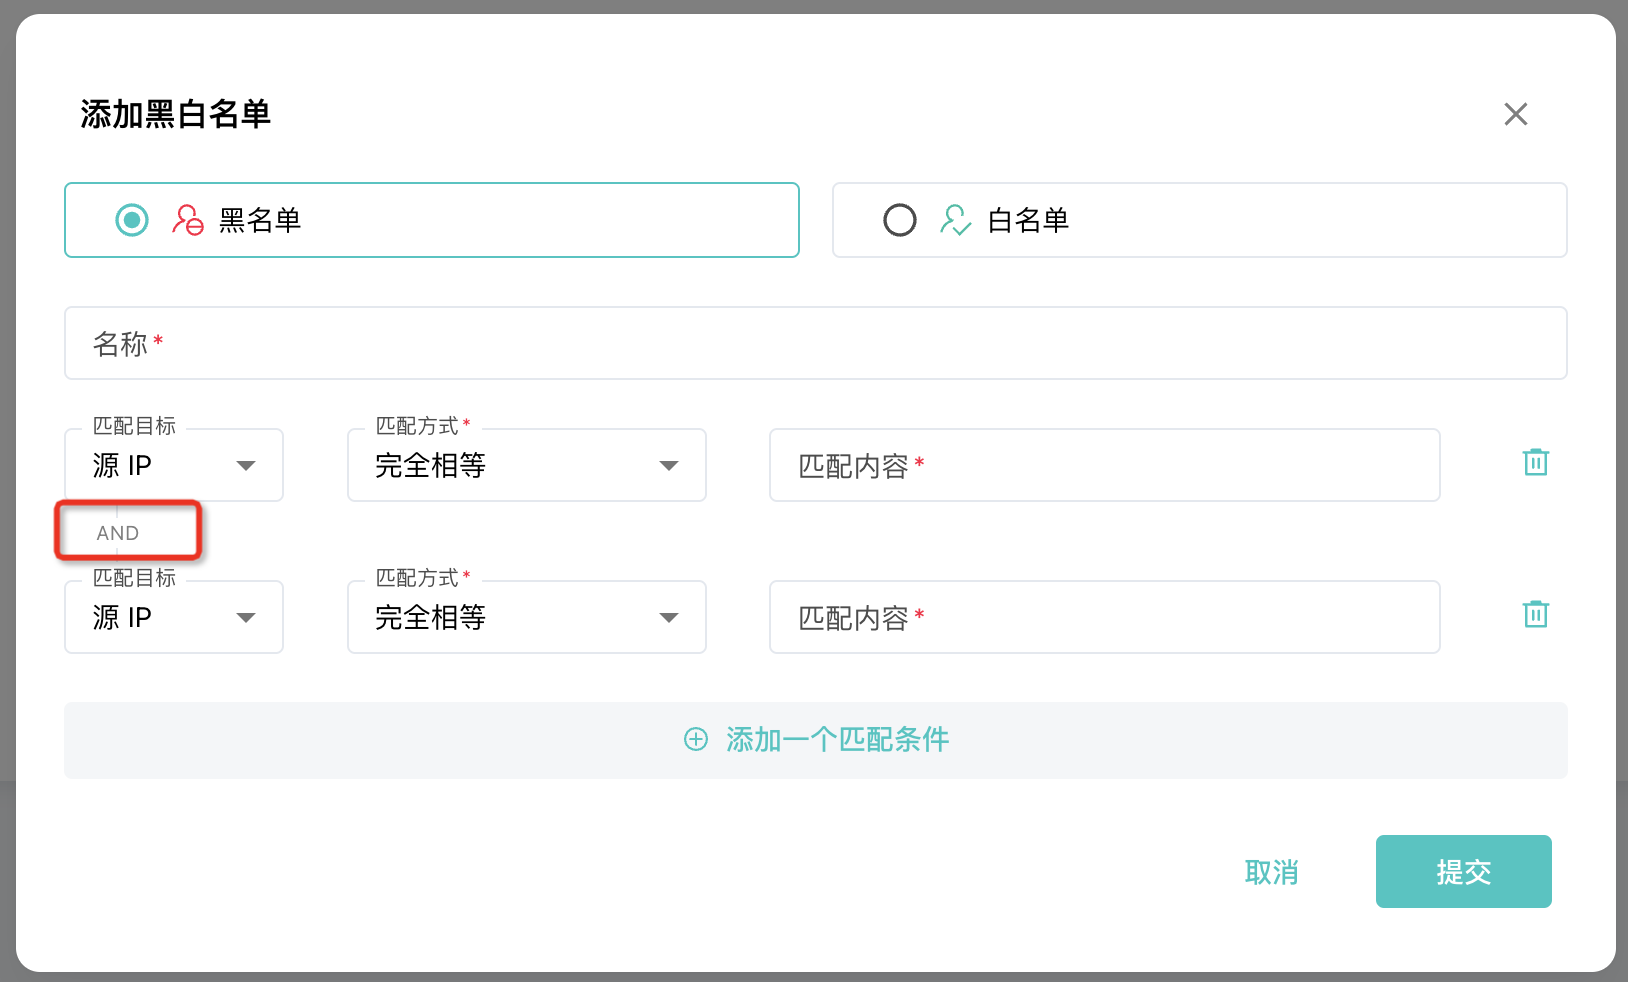
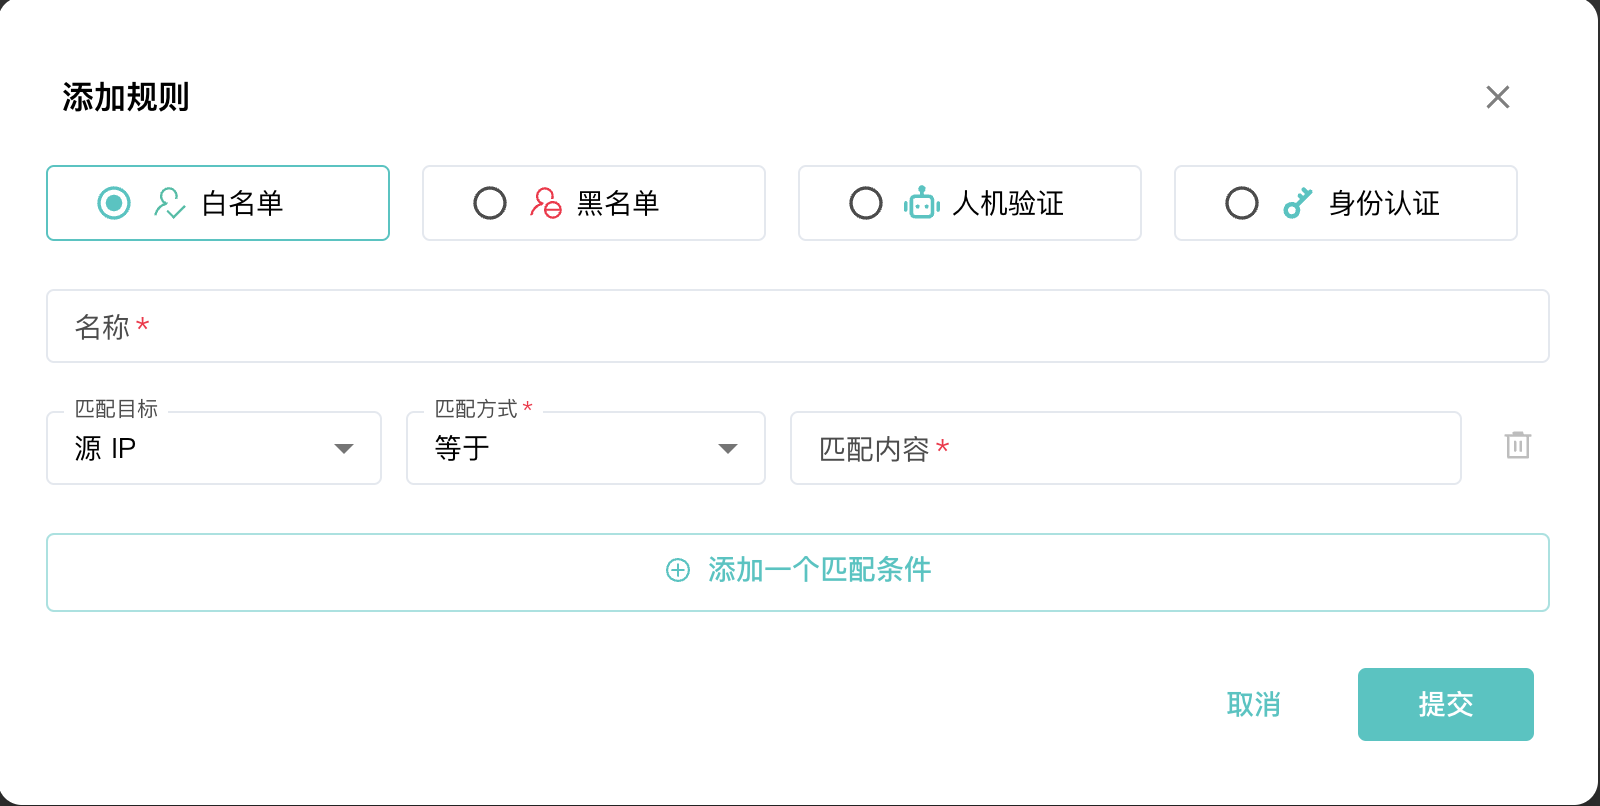
调整内容

diff --git a/documents/docs/02-guide/07-other_config.md b/documents/docs/02-guide/07-other_config.md
@@ -34,7 +34,14 @@ title: "配置其他"
 
 ## 防护配置
 
-### 黑白名单
+### 自定义规则
+
+新版本自定义规则把原黑白名单、人机验证、身份认证都合并一起管理，可以通过页面进行筛选
+
+
+![Alt text](/images/docs/guide_config/other_config1.png)
+
+#### 类型：黑、白名单 
 
 黑名单：拦截
 
@@ -42,7 +49,23 @@ title: "配置其他"
 
 注意：条件 AND 是指同时符合，如果希望多个匹配条件需要增加多条黑名单或者白名单
 
-![Alt text](/images/docs/guide_config/other_config1.png)
+#### 类型：人机验证
+
+人机验证的有效时间默认是一个小时，未来可能会支持配置，敬请期待。
+
+详情查看 [人机验证 2.0](/about/challenge)
+
+#### 类型：身份认证
+
+可以通过添加认证规则，对雷池保护的站点额外增加身份认证功能。
+
+![Alt text](/images/docs/guide_config/other_config4.png)
+
+如图，触发身份认证规则后需要使用账户密码登录后继续访问网站。
+
+![Alt text](/images/docs/guide_config/other_config5.png)
+
+
 
 ### 频率限制
 
@@ -52,11 +75,6 @@ title: "配置其他"
 
 ![Alt text](/images/docs/guide_config/other_config2.png)
 
-### 人机验证
-
-人机验证的有效时间默认是一个小时，未来可能会支持配置，敬请期待。
-
-详情查看 [人机验证 2.0](/about/challenge)
 
 ### 语义分析
 
@@ -70,15 +88,6 @@ title: "配置其他"
 
 ![Alt text](/images/docs/guide_config/other_config3.png)
 
-### 身份认证
-
-可以通过添加认证规则，对雷池保护的站点额外增加身份认证功能。
-
-![Alt text](/images/docs/guide_config/other_config4.png)
-
-如图，触发身份认证规则后需要使用账户密码登录后继续访问网站。
-
-![Alt text](/images/docs/guide_config/other_config5.png)
 
 ### 通用配置
 

diff --git a/documents/docs/02-guide/04-config.md b/documents/docs/02-guide/04-config.md
@@ -103,6 +103,24 @@ title: "配置站点"
 
 ![Alt text](/images/docs/guide_config/deploy_with_other_server.png)
 
+
+## 高级防护
+
+新版本增加单个站点的高级防护配置，支持对单个站点进行额外的防护配置
+
+注意：自定义规则不受到当前开关影响
+
+![Alt text](/images/docs/guide_config/config_site4.png)
+
+### 人机验证
+
+点击后可以开启单个站点的人机验证
+
+### 身份认证
+
+点击可以为当前站点额外配置一个身份认证规则
+
+
 ## 常见配置问题
 
 请参考 [配置问题](/faq/config)
